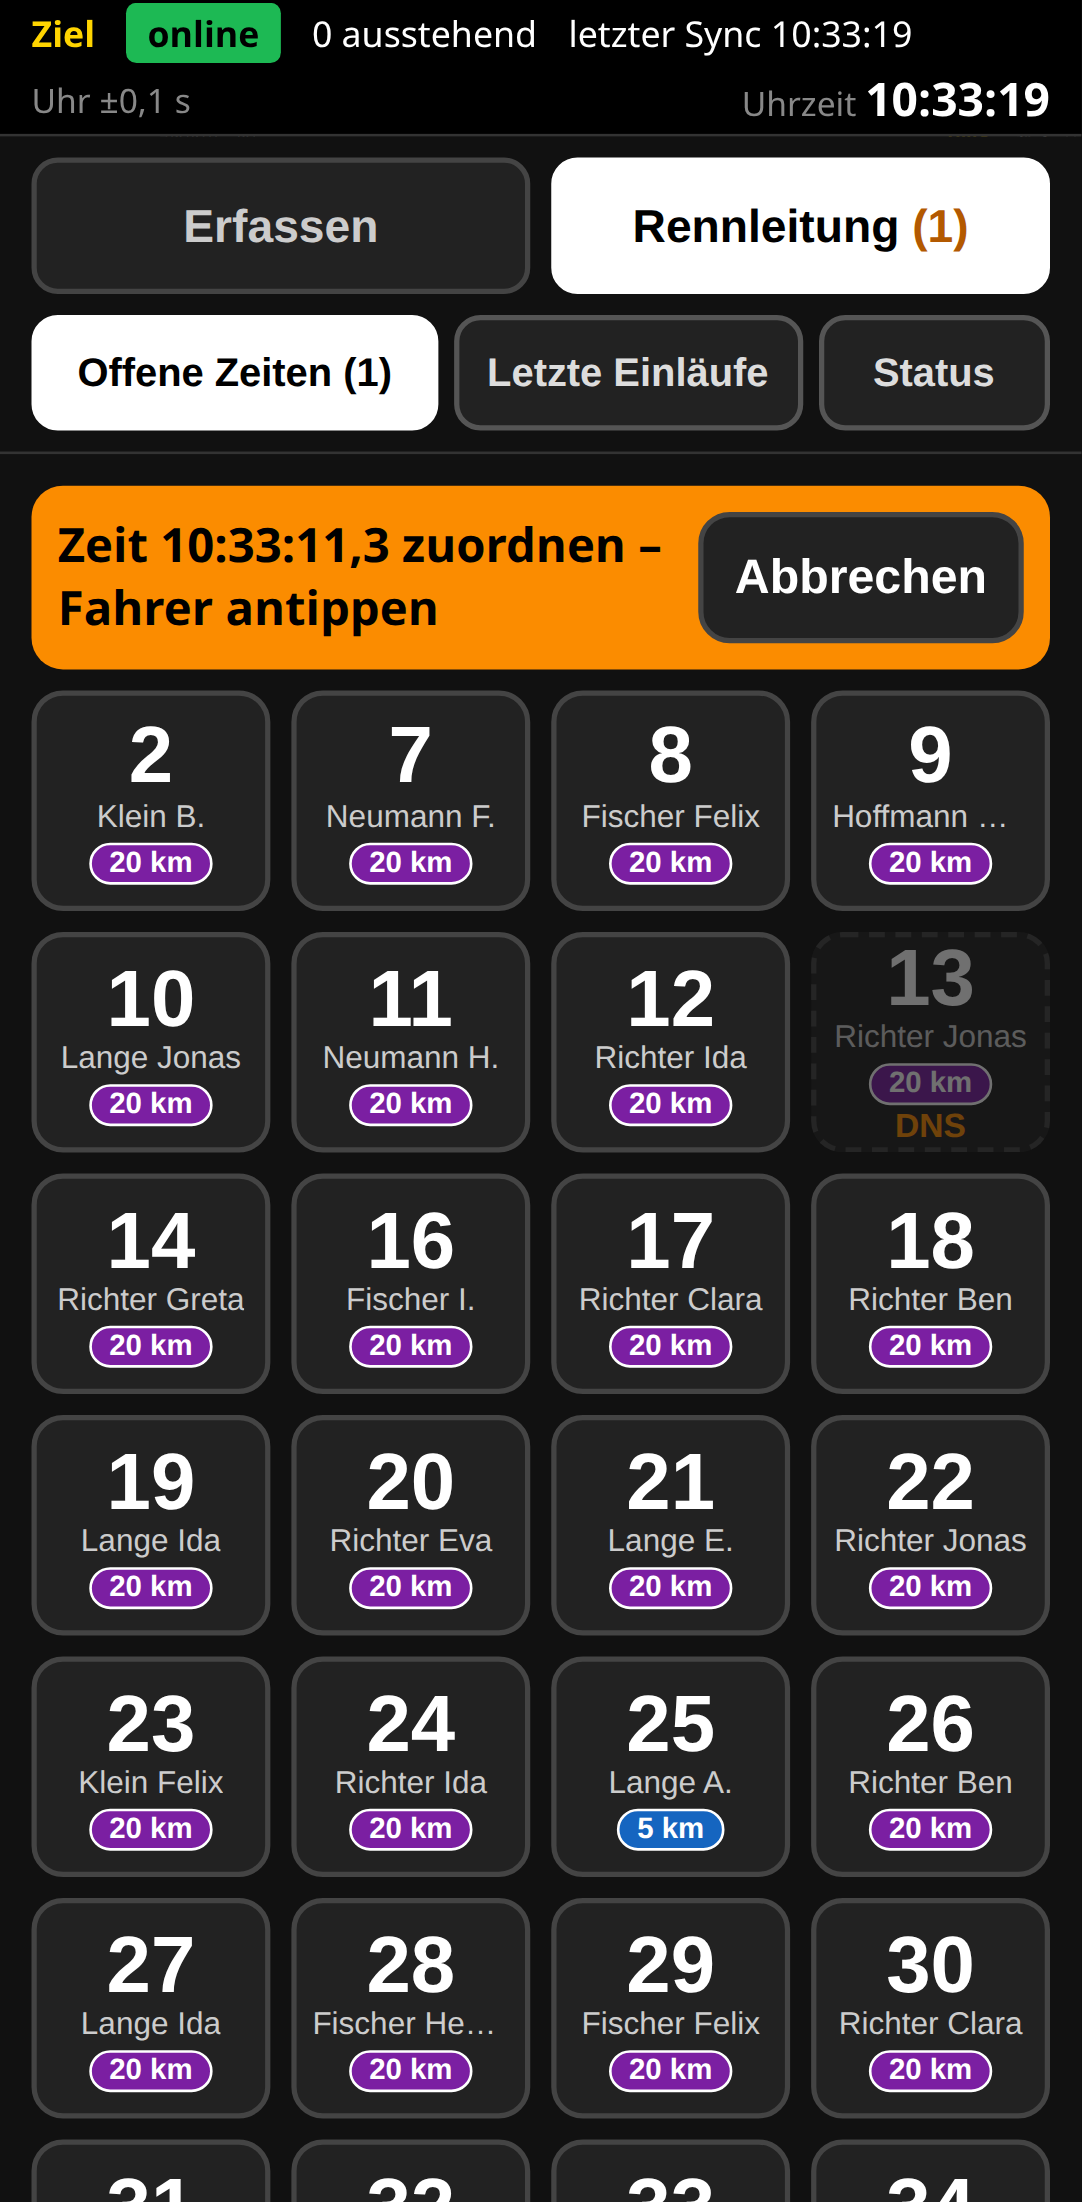
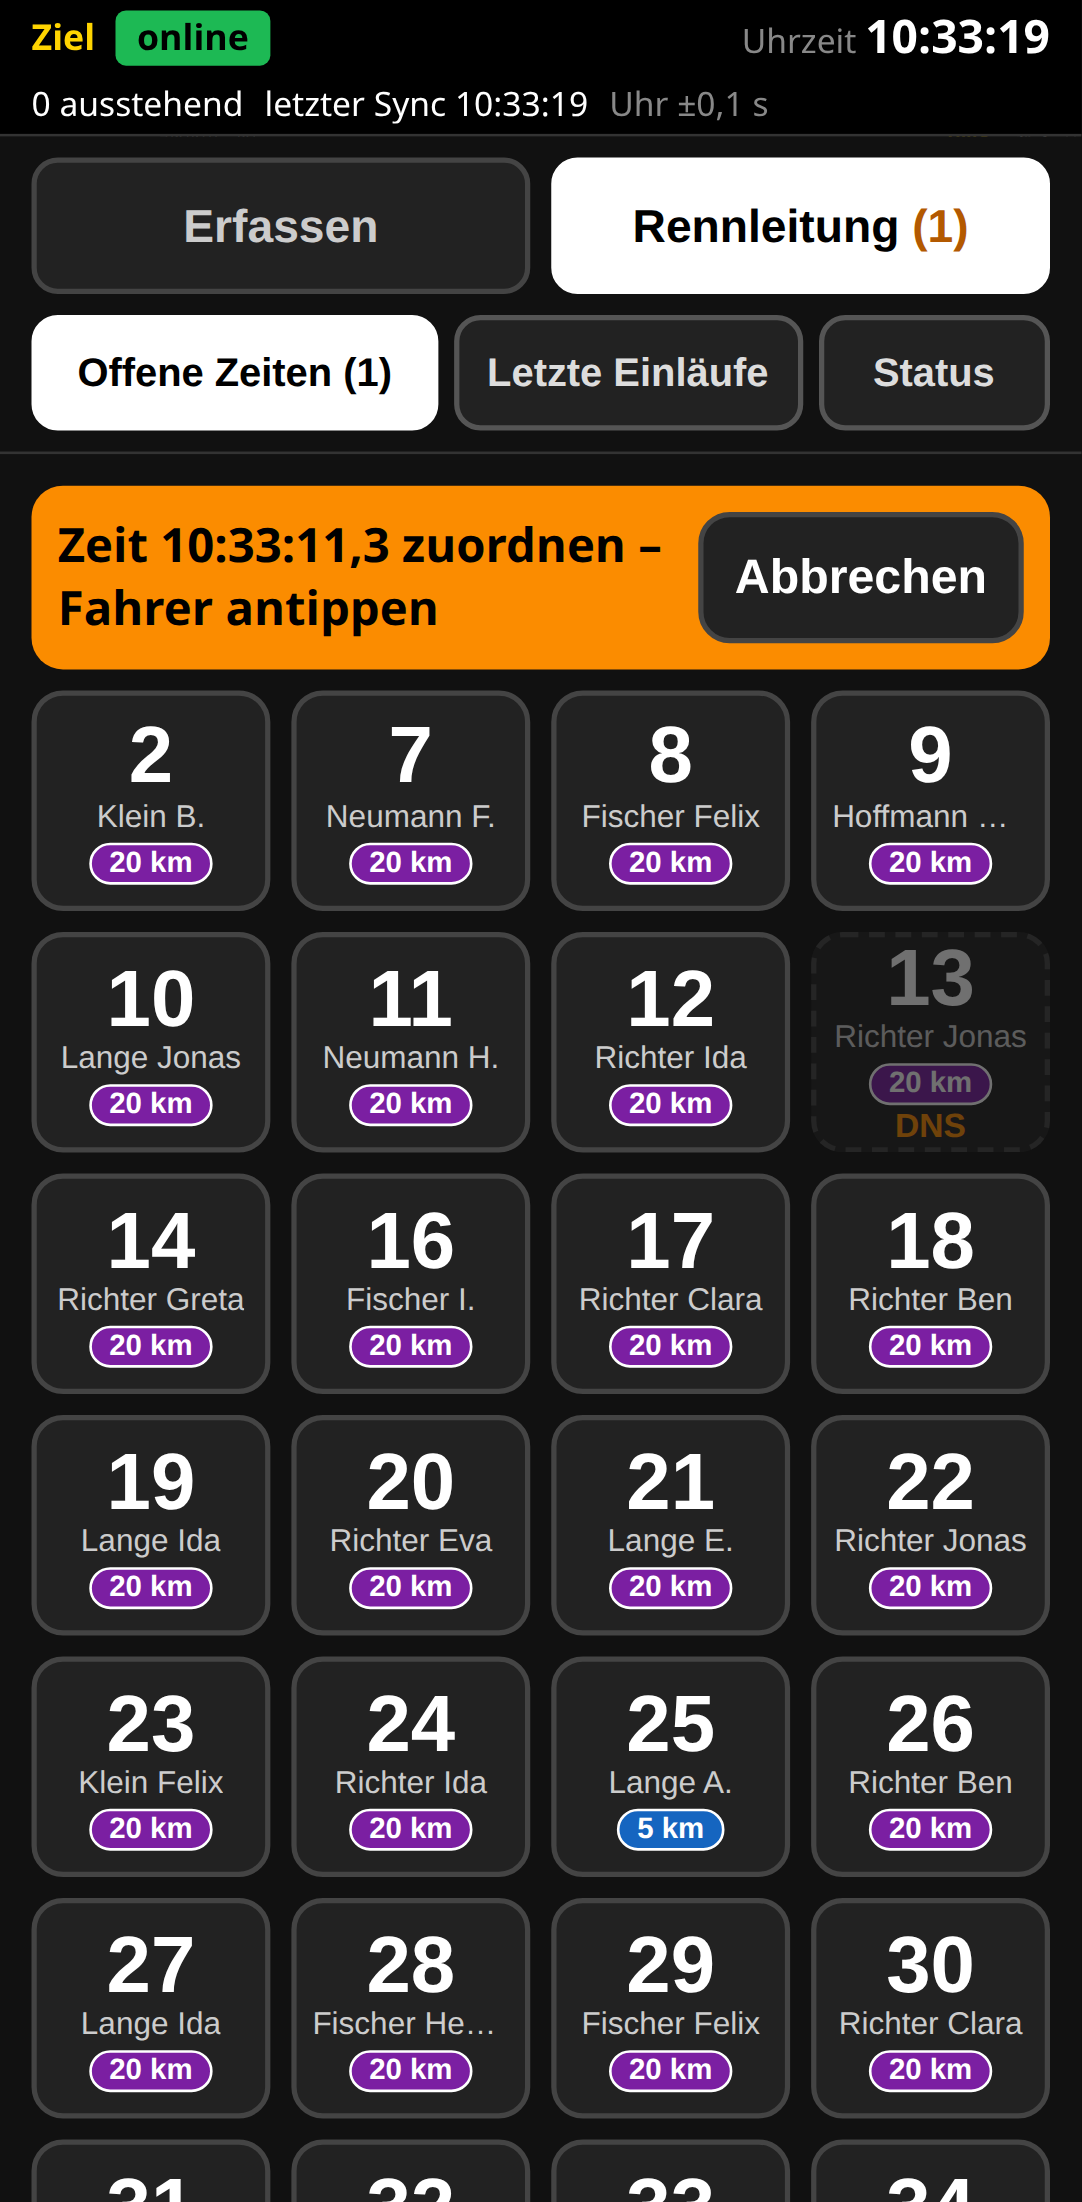
TapTrial 0.1.8

Changed region(s): [[0.0305, 0.0, 0.61, 0.0618], [0.6405, 0.0, 0.976, 0.0618]]

diff --git a/app/static/css/app.css b/app/static/css/app.css
@@ -24,19 +24,33 @@ h2 { font-size: 1rem; color: var(--grau); text-transform: uppercase; margin: 20p
 
 .statusleiste {
   position: sticky; top: 0; z-index: 10;
-  display: flex; flex-wrap: wrap; gap: 2px 12px; align-items: center; align-content: center;
+  display: flex; flex-direction: column; justify-content: center;
   /* feste Höhe: Änderungen im Text dürfen den Inhalt darunter nicht verschieben */
   height: var(--status-hoehe); overflow: hidden;
-  padding: 0 12px; background: #000; border-bottom: 1px solid #333; font-size: 0.85rem;
+  padding: 0 12px; background: #000; border-bottom: 1px solid #333; font-size: 0.85rem; line-height: 1.2;
 }
+/* Zwei feste Zeilen ohne Umbruch: oben Uhrzeit und Verbindung (nie gekürzt), unten die Hinweise.
+   Die Geräteseiten nutzen die Systemschrift, die Breite ist also je Handy anders. */
+.status-zeile { display: flex; align-items: center; gap: 8px; height: 28px; min-width: 0; white-space: nowrap; }
+.status-hinweise { height: 22px; font-size: 0.8rem; }
+.statusleiste .rolle, .hinweis, .uhr-pruefung { min-width: 0; overflow: hidden; text-overflow: ellipsis; }
 .statusleiste .rolle { font-weight: 700; color: var(--gelb); }
-.statusleiste .uhr-box { margin-left: auto; white-space: nowrap; color: var(--grau); font-size: 0.8rem; }
+.statusleiste .uhr-box { flex: none; margin-left: auto; color: var(--grau); font-size: 0.8rem; }
 .statusleiste .uhr { color: var(--fg); font-variant-numeric: tabular-nums; font-weight: 700; font-size: 1.1rem; }
-.netz { padding: 2px 8px; border-radius: 4px; font-weight: 700; }
+.netz { flex: none; padding: 2px 8px; border-radius: 4px; font-weight: 700; }
 .netz.ist-online { background: var(--gruen); color: #000; }
 .netz.ist-offline { background: var(--rot); color: #fff; }
-.uhr-pruefung { color: var(--grau); white-space: nowrap; font-size: 0.8rem; }
-.uhr-pruefung.uhr-warnung { background: var(--rot); color: #fff; font-weight: 700; padding: 1px 6px; border-radius: 4px; }
+.status-sync { flex-shrink: 100; } /* wird zuerst gekürzt */
+.uhr-pruefung { color: var(--grau); }
+/* Warnung vorn und mit Vorrang: „Uhr weicht 12,0 s ab“ bleibt lesbar, „letzter Sync“ weicht */
+.uhr-pruefung.uhr-warnung {
+  order: -1; flex-shrink: 1000; min-width: 66%;
+  background: var(--rot); color: #fff; font-weight: 700; padding: 1px 6px; border-radius: 4px;
+}
+.mit-warnung .status-sync { display: none; }
+@media (max-width: 359px) {
+  .uhr-text, .sync-text { display: none; }
+}
 /* Overlay statt im Fluss, damit Kacheln nicht springen */
 .fehler {
   position: fixed; left: 8px; right: 8px; bottom: 8px; z-index: 20;

diff --git a/app/templates/geraet_basis.html b/app/templates/geraet_basis.html
@@ -15,12 +15,16 @@
 </head>
 <body class="geraet geraet-{{ rolle }}">
   <header id="statusleiste" class="statusleiste">
-    <span class="rolle">{{ titel }}</span>
-    <span id="netz" class="netz">…</span>
-    <span id="ausstehend">0 ausstehend</span>
-    <span>letzter Sync <span id="letzter-sync">–</span></span>
-    <span id="uhr-pruefung" class="uhr-pruefung" title="Abweichung der Geräteuhr gegenüber dem Server">Uhr ungeprüft</span>
-    <span class="uhr-box" title="Aktuelle Uhrzeit dieses Geräts (keine Rennuhr)">Uhrzeit <span id="uhr" class="uhr"></span></span>
+    <div class="status-zeile">
+      <span class="rolle">{{ titel }}</span>
+      <span id="netz" class="netz">…</span>
+      <span class="uhr-box" title="Aktuelle Uhrzeit dieses Geräts (keine Rennuhr)"><span class="uhr-text">Uhrzeit </span><span id="uhr" class="uhr"></span></span>
+    </div>
+    <div class="status-zeile status-hinweise">
+      <span id="ausstehend" class="hinweis">0 ausstehend</span>
+      <span class="hinweis status-sync"><span class="sync-text">letzter </span>Sync <span id="letzter-sync">–</span></span>
+      <span id="uhr-pruefung" class="uhr-pruefung" title="Abweichung der Geräteuhr gegenüber dem Server">Uhr ungeprüft</span>
+    </div>
   </header>
   <div id="fehler" class="fehler" hidden></div>
   <section id="sperre" class="sperre" hidden aria-live="polite">

diff --git a/app/static/js/geraet.js b/app/static/js/geraet.js
@@ -687,6 +687,7 @@ export class Geraet {
     const { text, warnung } = uhrText(on ? this.uhrAbweichung() : null);
     pruefung.textContent = text;
     pruefung.classList.toggle("uhr-warnung", warnung);
+    document.getElementById("statusleiste").classList.toggle("mit-warnung", warnung);
   }
 
   zeigeUhr() {

diff --git a/tests/e2e/test_statusleiste.py b/tests/e2e/test_statusleiste.py
@@ -1,0 +1,130 @@
+"""E2E: Die Statusleiste behält ihre Höhe; Uhrzeit und Verbindung bleiben immer ganz sichtbar."""
+
+import pytest
+from playwright.sync_api import expect
+
+from tests.e2e.conftest import oeffnen, offline
+from tests.e2e.test_uhr import _verstellen
+
+ROLLEN = ["start", "ziel", "posten", "rennleitung"]
+HOEHE = 52
+# breiter als jede übliche Handy-Schrift: DejaVu Sans und zusätzlich gesperrt
+BREITE_SCHRIFT = "body { font-family: 'DejaVu Sans' !important; letter-spacing: 0.06em; }"
+LANGER_ORT = "Start · Steinbruch am Nordwesthang"
+
+
+@pytest.fixture
+def rundkurs():
+    return "messpunkte"
+
+
+def _oeffnen(ctx, server, rolle, breite):
+    seite = server.seite(rolle) if rolle != "rennleitung" else None
+    page = ctx.new_page()
+    page.set_viewport_size({"width": breite, "height": 700})
+    if seite is None:  # ohne eigenen Link: Zielgerät übernimmt die Rennleitung
+        seite = f"{server.url}/rennleitung?token=e2e-ziel"
+    page.goto(seite)
+    page.wait_for_function("window.geraetBereit === true")
+    page.add_style_tag(content=BREITE_SCHRIFT)
+    return page
+
+
+def _pruefen(page, breite):
+    """Leiste in fester Höhe; Uhrzeit und Verbindung vollständig, nichts ragt über den Rand."""
+    leiste = page.locator("#statusleiste").bounding_box()
+    assert leiste["height"] == HOEHE
+    for s in ("#uhr", "#netz"):
+        expect(page.locator(s)).to_be_visible()
+        box = page.locator(s).bounding_box()
+        assert box["y"] >= leiste["y"] and box["y"] + box["height"] <= leiste["y"] + HOEHE, s
+        assert box["x"] >= 0 and box["x"] + box["width"] <= breite, s
+        assert page.locator(s).evaluate("e => e.scrollWidth <= e.clientWidth || !e.clientWidth"), s
+    assert page.evaluate("document.documentElement.scrollWidth") <= breite  # kein Querscrollen
+    for s in ("#ausstehend", "#uhr-pruefung"):  # Hinweise: gekürzt, nie unterhalb abgeschnitten
+        box = page.locator(s).bounding_box()
+        assert box["y"] + box["height"] <= leiste["y"] + HOEHE, s
+        assert box["x"] + box["width"] <= breite, s
+
+
+def _sichtbarer_text_reicht(page, anfang):
+    """Der Anfang des Hinweises steht im sichtbaren Teil und nicht hinter dem Kürzungszeichen."""
+    return page.locator("#uhr-pruefung").evaluate(
+        """(e, anfang) => {
+          const r = document.createRange();
+          r.setStart(e.firstChild, 0);
+          r.setEnd(e.firstChild, anfang.length);
+          return e.textContent.startsWith(anfang)
+            && r.getBoundingClientRect().right <= e.getBoundingClientRect().right;
+        }""",
+        anfang,
+    )
+
+
+@pytest.mark.parametrize("breite", [320, 390])
+@pytest.mark.parametrize("rolle", ROLLEN)
+def test_warnung_laesst_uhrzeit_und_verbindung_stehen(server, neues_geraet, rolle, breite):
+    ctx = neues_geraet()
+    _verstellen(ctx, -12000)
+    page = _oeffnen(ctx, server, rolle, breite)
+    expect(page.locator("#uhr-pruefung")).to_have_class("uhr-pruefung uhr-warnung")
+    _pruefen(page, breite)
+    assert _sichtbarer_text_reicht(page, "Uhr weicht 12,0 s ab")
+    expect(page.locator("#ausstehend")).to_be_visible()
+
+
+@pytest.mark.parametrize("breite", [320, 390])
+def test_viele_ausstehende_und_langer_ort(server, neues_geraet, breite):
+    ctx = neues_geraet()
+    _verstellen(ctx, -12000)
+    page = _oeffnen(ctx, server, "start", breite)
+    page.evaluate("""ort => {
+      document.querySelector('#statusleiste .rolle').textContent = ort;
+      window.geraet.ausstehend = () => new Array(128);
+      window.geraet.abgelehnt = () => new Array(12);
+      window.geraet.zeigeStatus();
+    }""", LANGER_ORT)  # fmt: skip
+    expect(page.locator("#ausstehend")).to_have_text("128 ausstehend · 12 abgelehnt")
+    _pruefen(page, breite)
+    assert _sichtbarer_text_reicht(page, "Uhr weicht 12,0 s ab")
+
+
+@pytest.mark.parametrize("breite", [320, 390])
+def test_offline_ohne_warnung(server, neues_geraet, breite):
+    ctx = neues_geraet()
+    page = _oeffnen(ctx, server, "ziel", breite)
+    offline(ctx, True)
+    expect(page.locator("#netz")).to_have_text("offline")
+    expect(page.locator("#uhr-pruefung")).to_have_text("Uhr ungeprüft")
+    _pruefen(page, breite)
+    expect(page.locator("#letzter-sync")).to_be_visible()
+
+
+def test_warnung_verschiebt_nichts_und_verschwindet_wieder(server, neues_geraet):
+    """Kommt die Warnung hinzu oder geht sie, bleiben Kacheln und Knöpfe, wo sie sind."""
+    ctx = neues_geraet()
+    page = oeffnen(ctx, server, "start")
+    page.add_style_tag(content=BREITE_SCHRIFT)
+    knopf = page.locator("#btn-start").bounding_box()
+    page.evaluate("window.geraet.uhrAbweichung = () => 12000; window.geraet.zeigeStatus()")
+    expect(page.locator("#uhr-pruefung")).to_have_text("Uhr weicht 12,0 s ab – Gerät prüfen")
+    assert page.locator("#btn-start").bounding_box() == knopf
+    _pruefen(page, page.viewport_size["width"])
+    expect(page.locator("#letzter-sync")).to_be_hidden()  # am ehesten verzichtbar
+    page.evaluate("window.geraet.uhrAbweichung = () => 100; window.geraet.zeigeStatus()")
+    expect(page.locator("#letzter-sync")).to_be_visible()
+    assert page.locator("#btn-start").bounding_box() == knopf
+
+
+def test_e2e_laeuft_mit_der_festgelegten_schrift(server, neues_geraet):
+    """Die Systemschrift der Geräteseiten ist im Browser wirklich DejaVu Sans (schriften.conf)."""
+    page = oeffnen(neues_geraet(), server, "start")
+    breiten = page.evaluate("""() => {
+      const c = document.createElement("canvas").getContext("2d");
+      return ["system-ui", "'DejaVu Sans'", "monospace"].map((f) => {
+        c.font = `16px ${f}`;
+        return c.measureText("Uhr weicht 12,0 s ab – Gerät prüfen").width;
+      });
+    }""")
+    assert breiten[0] == breiten[1] != breiten[2]
+    assert "system-ui" in page.evaluate("getComputedStyle(document.body).fontFamily")

diff --git a/tests/unit/test_sicherungen_beliebig.py b/tests/unit/test_sicherungen_beliebig.py
@@ -1,0 +1,59 @@
+"""Tests mit echten Sicherungen hängen nicht davon ab, welche Sicherungen lokal liegen: Sie sind
+grün oder überspringen mit Grund – bei leerem Verzeichnis, nur alten und nur aktuellen Dateien."""
+
+import os
+import subprocess
+import sys
+from pathlib import Path
+
+import pytest
+from fastapi.testclient import TestClient
+
+from app.einstellungen import Einstellungen
+from app.main import create_app
+from tests.unit.test_migration_saetze import alte_datenbank
+
+PROJEKT = Path(__file__).resolve().parents[2]
+DATEIEN = [
+    "tests/unit/test_migrationen.py", "tests/unit/test_migration_runden.py",
+    "tests/unit/test_migration_saetze.py", "tests/unit/test_migration_strecken.py",
+    "tests/unit/test_auswertung_sicherungen.py",
+]  # fmt: skip
+AUSWAHL = "backup or echten or ergebnisse_unveraendert"
+
+
+def _alt(verzeichnis: Path) -> None:
+    alte_datenbank(verzeichnis / "backup-2026-10-01-120000.sqlite3", True)
+
+
+def _aktuell(verzeichnis: Path) -> None:
+    """Wie eine Sicherung nach dem Deploy: Daten eines Rennens, schon im aktuellen Schema."""
+    pfad = verzeichnis / "backup-2026-11-04-131233.sqlite3"
+    alte_datenbank(pfad, True)
+    with TestClient(create_app(Einstellungen.fuer_tests(db_pfad=str(pfad)))):
+        pass  # migriert beim Start
+
+
+def _lauf(verzeichnis: Path) -> subprocess.CompletedProcess:
+    env = {**os.environ, "TAPTRIAL_BACKUP_VERZEICHNIS": str(verzeichnis), "COLUMNS": "300"}
+    return subprocess.run(
+        [sys.executable, "-m", "pytest", "-q", "-rA", "-p", "no:cacheprovider", "-n", "0",
+         "-k", AUSWAHL, *DATEIEN],
+        cwd=PROJEKT, env=env, capture_output=True, text=True, check=False,
+    )  # fmt: skip
+
+
+@pytest.mark.parametrize("fall", ["leer", "nur-alt", "nur-aktuell", "alt-und-aktuell"])
+def test_gruen_oder_uebersprungen_egal_welche_sicherungen(tmp_path, fall):
+    if "alt" in fall.replace("aktuell", ""):
+        _alt(tmp_path)
+    if "aktuell" in fall:
+        _aktuell(tmp_path)
+    r = _lauf(tmp_path)
+    assert r.returncode == 0, r.stdout[-3000:]
+    assert "failed" not in r.stdout and "error" not in r.stdout.lower()
+    abbruch_geprueft = "PASSED tests/unit/test_migrationen.py::test_abbruch_mit_kopie" in r.stdout
+    if fall == "nur-aktuell":  # nichts zu migrieren: Abbruchtest überspringt mit Grund
+        assert "keine Sicherung mit älterem Schema" in r.stdout and not abbruch_geprueft
+    if fall in ("nur-alt", "alt-und-aktuell"):
+        assert "keine Sicherung mit älterem Schema" not in r.stdout and abbruch_geprueft

diff --git a/tests/unit/test_migrationen.py b/tests/unit/test_migrationen.py
@@ -14,7 +14,17 @@ from app.einstellungen import Einstellungen
 from app.main import create_app
 from app.migrationen import AKTUELL, SCHEMA, MigrationsFehler, migrieren
 from app.models import Veranstaltung
-from tests.unit.test_migration_saetze import BACKUPS, _kurz, alte_datenbank, ergebnis_vorher
+from tests.unit.test_migration_saetze import (
+    BACKUPS,
+    _kurz,
+    alte_datenbank,
+    ergebnis_vorher,
+    schema_version,
+)
+
+# Der Abbruch greift nur, wenn ein Schritt aussteht: Sicherungen im aktuellen Schema (etwa die vom
+# letzten Deploy) taugen dafür nicht. Älteste und neueste der übrigen.
+ALTE_BACKUPS = [b for b in BACKUPS if schema_version(b) < AKTUELL]
 
 
 def stand(pfad: Path) -> tuple[int, set[str], set[str], set[str]]:
@@ -84,6 +94,7 @@ def test_abbruch_im_schema_laesst_die_datei_unveraendert(
     pfad = tmp_path / "alt.sqlite3"
     alte_datenbank(pfad, mit_wertung)
     vorher = stand(pfad)
+    assert vorher[0] < AKTUELL  # sonst prüft der Test nichts
     echt = db.schema_nachruesten
 
     def bis_zum_ende_dann_abbruch(conn):
@@ -119,14 +130,20 @@ def test_abbruch_im_daten_schritt_bleibt_auf_dem_stand_davor(tmp_path, engine_vo
     assert stand(pfad)[0] == AKTUELL
 
 
-@pytest.mark.skipif(not BACKUPS, reason="kein Backup unter ~/rcb-backups/")
-@pytest.mark.parametrize("backup", BACKUPS[:1] + BACKUPS[-1:], ids=lambda p: p.name)
+@pytest.mark.skipif(
+    not ALTE_BACKUPS,
+    reason="keine Sicherung mit älterem Schema unter ~/rcb-backups/ – nichts zu migrieren",
+)
+@pytest.mark.parametrize(
+    "backup", list(dict.fromkeys(ALTE_BACKUPS[:1] + ALTE_BACKUPS[-1:])), ids=lambda p: p.name
+)
 def test_abbruch_mit_kopie_einer_echten_sicherung(tmp_path, engine_von, monkeypatch, backup):
     pfad = tmp_path / backup.name
     shutil.copy2(backup, pfad)
     for rest in ("-wal", "-shm"):
         (Path(str(pfad) + rest)).unlink(missing_ok=True)
     vorher = stand(pfad)
+    assert vorher[0] < AKTUELL  # sonst prüft der Test nichts
     echt = db.schema_nachruesten
 
     def abbruch(conn):

diff --git a/tests/e2e/conftest.py b/tests/e2e/conftest.py
@@ -30,6 +30,10 @@ TOKENS = {
     "ziel-hof": "e2e-ziel-hof",  # weiterer Zielort (rundkurs „zielorte“)
 }
 GERAET = "Pixel 7"
+# Dieselben Schriften lokal und auf GitHub, sonst schwanken Layout-Prüfungen; erbt der Browser
+SCHRIFT = "DejaVu Sans"
+if sys.platform == "linux":
+    os.environ["FONTCONFIG_FILE"] = str(Path(__file__).with_name("schriften.conf"))
 
 
 @dataclass
@@ -368,6 +372,21 @@ def offene_seiten_schliessen(browser):
     yield
     for ctx in list(browser.contexts):
         ctx.close()
+
+
+@pytest.fixture(scope="session", autouse=True)
+def schrift_vorhanden():
+    """Ohne die festgelegte Schrift wären Layout-Prüfungen zufällig: lieber klar scheitern."""
+    if sys.platform != "linux":
+        return
+    r = subprocess.run(
+        ["fc-match", "-f", "%{family}", "sans-serif"], capture_output=True, text=True, check=False
+    )
+    if SCHRIFT not in r.stdout:
+        pytest.fail(
+            f"E2E braucht {SCHRIFT}, gefunden: „{r.stdout}“. "
+            "Installieren: sudo apt-get install fontconfig fonts-dejavu-core fonts-dejavu-extra"
+        )
 
 
 @pytest.fixture

diff --git a/tests/unit/test_migration_saetze.py b/tests/unit/test_migration_saetze.py
@@ -20,9 +20,19 @@ from app.models import Veranstaltung
 from app.simulation import rennplan
 from app.wertung import Stufe, Wertung, lade_wertungen, zehntel_km
 
-# Backups des echten Rennens (nur lokal); im Release-Export zeigt TAPTRIAL_BACKUP_VERZEICHNIS ins Leere
+# Backups des echten Rennens (nur lokal); bei den Tests im Export zeigt TAPTRIAL_BACKUP_VERZEICHNIS
+# ins Leere (wie auf GitHub)
 BACKUP_VERZEICHNIS = Path(umgebung.wert("backup_verzeichnis") or Path.home() / "rcb-backups")
 BACKUPS = sorted(BACKUP_VERZEICHNIS.glob("backup-*.sqlite3"))
+
+
+def schema_version(backup: Path) -> int:
+    """PRAGMA user_version der Sicherung, nur lesend (immutable): das Original bleibt unberührt."""
+    con = sqlite3.connect(f"file:{backup}?mode=ro&immutable=1", uri=True)
+    try:
+        return con.execute("PRAGMA user_version").fetchone()[0]
+    finally:
+        con.close()
 
 
 def hat_strecken(pfad: Path) -> bool:

diff --git a/tests/unit/test_workflows.py b/tests/unit/test_workflows.py
@@ -32,6 +32,8 @@ def test_e2e_als_eigener_lauf_bei_push_auf_main():
     schritte = " ".join(str(s.get("run", "")) for s in w["jobs"]["e2e"]["steps"])
     assert "uv sync --frozen" in schritte and "playwright install --with-deps chromium" in schritte
     assert "pytest -q -n 2 tests/e2e" in schritte and "pytest -q tests/container" in schritte
+    # Schriften wie lokal, vor den Browser-Tests (tests/e2e/schriften.conf)
+    assert schritte.index("fonts-dejavu-core fonts-dejavu-extra") < schritte.index("pytest -q -n 2")
 
 
 def test_image_bei_tag():

diff --git a/CHANGELOG.md b/CHANGELOG.md
@@ -4,6 +4,14 @@ Alle nennenswerten Änderungen an TapTrial. Format nach [Keep a Changelog](https
 
 ## [Unreleased]
 
+## [0.1.8] – 2026-11-03
+
+### Behoben
+- **Statusleiste der Geräte:** Bei einer Uhrwarnung konnte die Uhrzeit auf schmalen Handys oder mit breiter Systemschrift aus der Leiste rutschen. Uhrzeit und Verbindung bleiben jetzt immer ganz sichtbar; lange Hinweise werden gekürzt.
+
+### Intern
+- E2E-Tests laufen lokal und auf GitHub mit denselben Schriften, und `veroeffentlichen.sh` führt sie vor dem Commit im öffentlichen Repo auch im Export aus (`--schnell` überspringt das mit Hinweis).
+
 ## [0.1.7] – 2026-11-03
 
 ### Sicherheit
